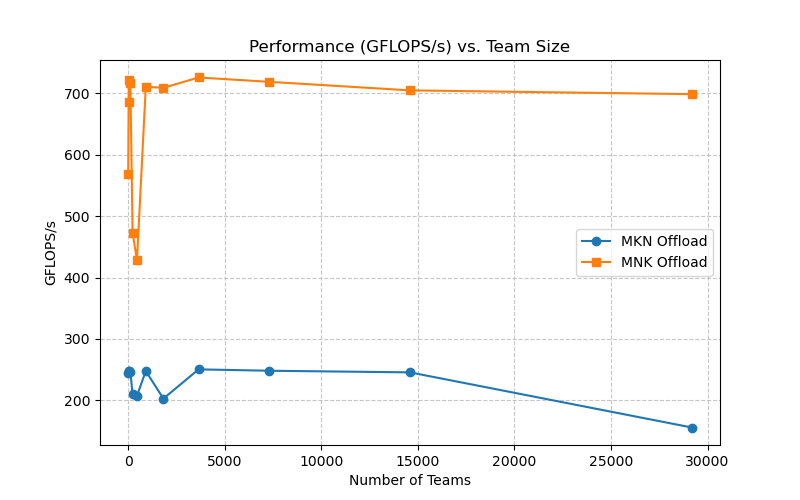
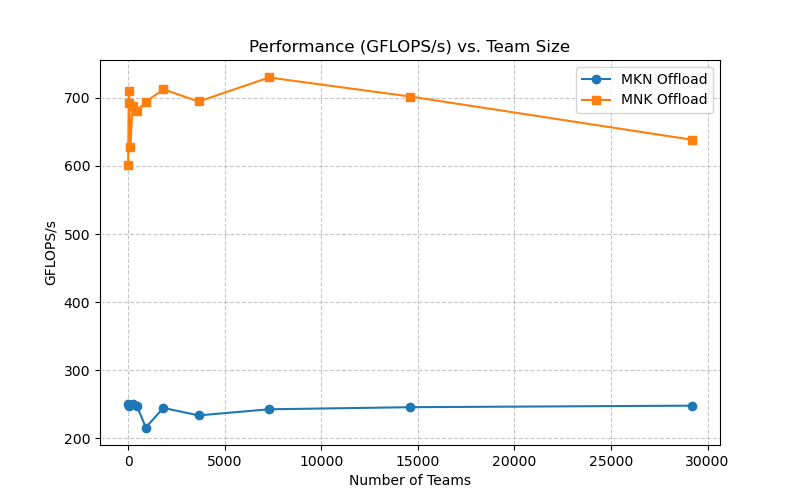
final data

diff --git a/teams_mkn_mnk_plot.py b/teams_mkn_mnk_plot.py
@@ -2,7 +2,7 @@ import numpy as np
 import matplotlib.pyplot as plt
 
 # Load data from CSV file
-file_path = "team_size_performance_results.csv"
+file_path = "team_size_performance_results_last.csv"
 
 # Read the file, skipping the header
 data = np.genfromtxt(file_path, delimiter=",", dtype=str, encoding=None, skip_header=1)
